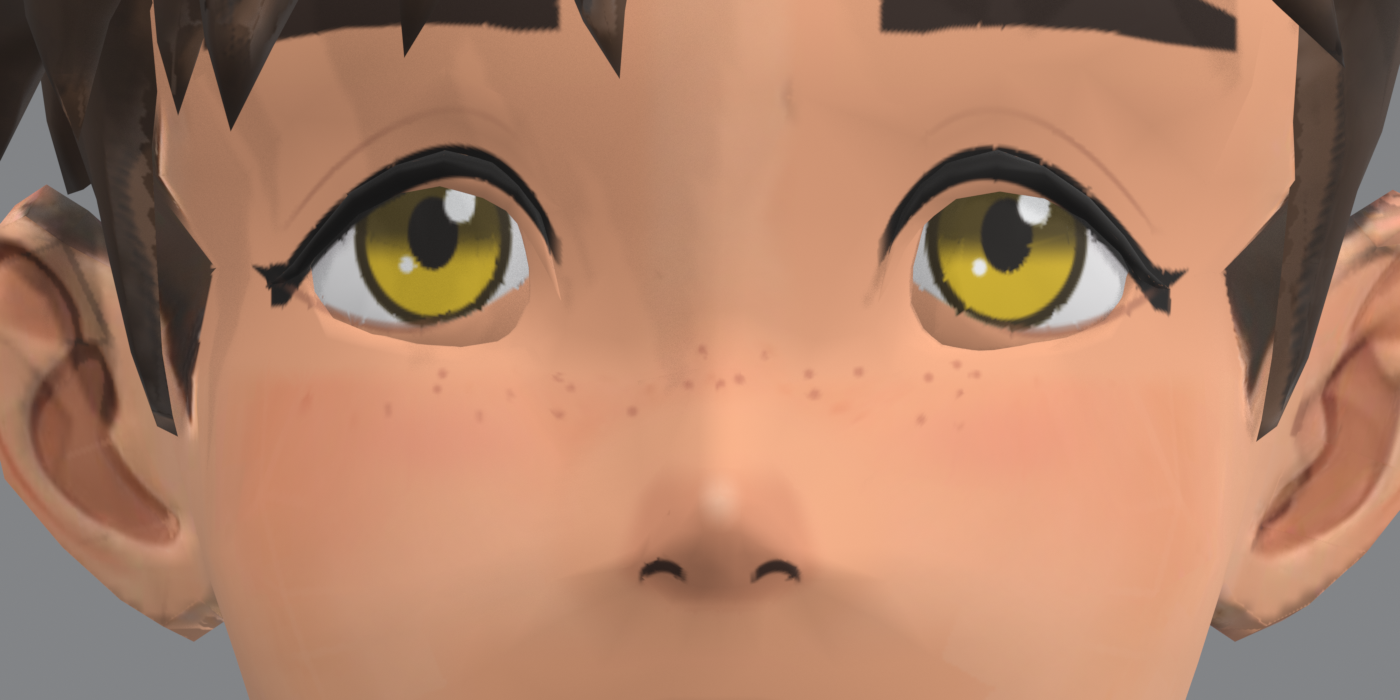
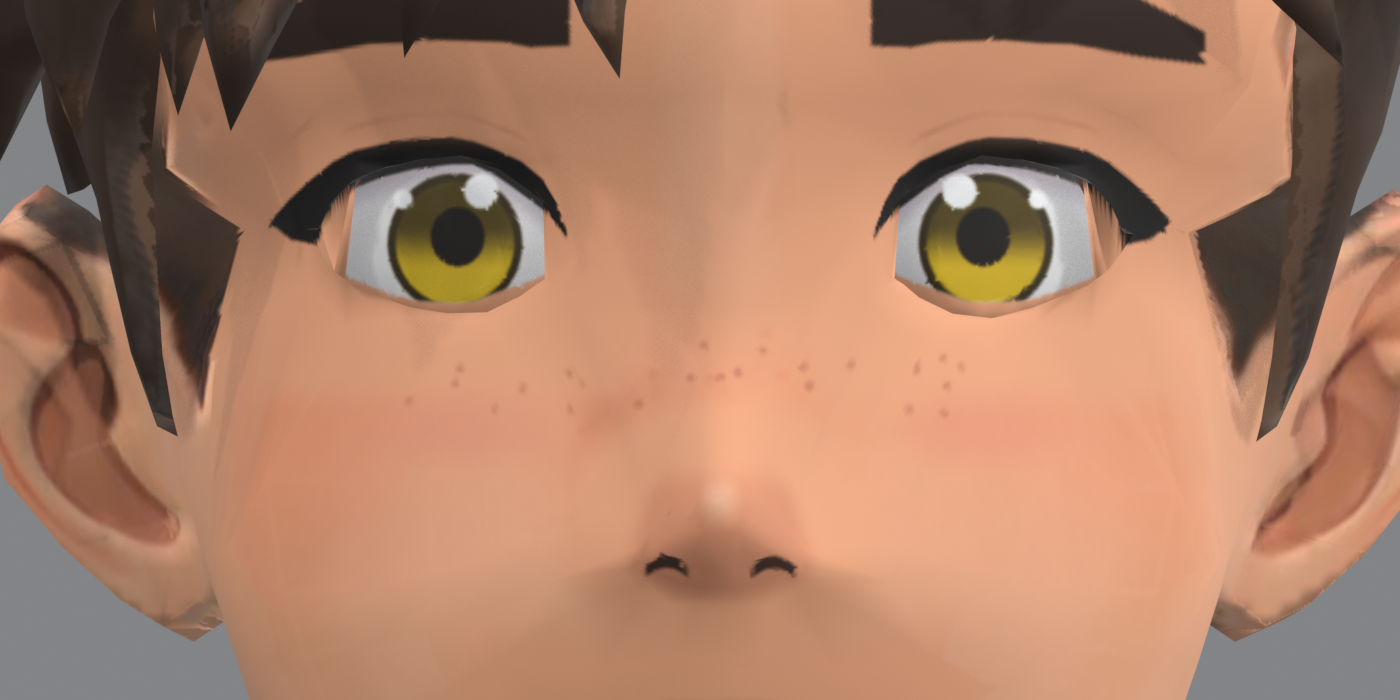
The boy's eyes are the drawing's: an almond traced from the face sheet, 50 mm apart, in sockets fitted to it
The eyes were round and too far apart because they followed Tripo's sockets. eyes.paint_template now paints the
drawn eye itself, traced column by column on the face sheet (an almond 0.46 pupil spacings wide and 0.26 tall, a
nearly flat lash line closing at the inner corner, a short wing, the iris, pupil and highlights), with the pupils
50 mm apart instead of 54; everything else in its region is skin, and the white and iris go on the eyeball only.
The sockets follow: eyes.scale shrinks them to the drawn eye, 4.2 mm toward the nose and 5.4 mm up; the arching
lift is off; eyes.flatten_lids smooths away the lid ridge whose shaded underside crossed the iris as a grey band;
eyes.fit_hole moves the face vertices that fell inside the drawn opening onto its outline. flat_render.py renders
the face unlit for comparison with the drawing.

diff --git a/games/haras_valley/assets/characters/tools/eyes.py b/games/haras_valley/assets/characters/tools/eyes.py
@@ -9,7 +9,9 @@ iris, and Tripo's own eye paint, gloss and normal detail show through at the soc
    corners of each eye are the rim of its hole seen from the front, fitted with smooth quartic curves (outline).
    The lower lid is drawn LOWER_LID eye widths below the corners, the drawing's proportion, but never below where
    the eyeball is still visible from the front (visible_outline): the eyeball bulges past the mesh's lower lid.
-2. On the eyeball and the rim, an eye is drawn in the face sheet's style, analytically in front-view coordinates (so edges
+2. With template_pupils (the cleanup's default), the drawn eye itself is painted there: its outline, lash line,
+   wing, iris, pupil and highlights traced on the face sheet (TEMPLATE_*, paint_template), everything else in its
+   region skin, whatever the socket's shape. Otherwise, on the eyeball and the rim, an eye is drawn in the face sheet's style, analytically in front-view coordinates (so edges
    are as sharp as the texture allows): white with a shadow under the lid, an olive-to-yellow iris with a dark rim,
    a pupil, two highlights, a thick upper lash line ending in an outer wing, a crease above it, a short lower line.
 3. Around the eyes and over the brow band, anything that is not skin (Tripo's eye paint, the projected drawing's
@@ -275,7 +277,7 @@ class Eye:
         return smoothstep(margin, 0, outside)
 
 
-def paint(mesh, world, uv, colour, roughness, metallic, normal, texel_coverage, parts):
+def paint(mesh, world, uv, colour, roughness, metallic, normal, texel_coverage, parts, template_pupils=None):
     """Paint both eyes and brows into the texture arrays in place, from the head's pieces (head_parts)."""
     global EDGE
     height, width = colour.shape[:2]
@@ -340,11 +342,21 @@ def paint(mesh, world, uv, colour, roughness, metallic, normal, texel_coverage, 
     for eye in eyes:
         eye.skin = skin
     current[on_brow] = BROW                       # Tripo's brow strips, in the drawing's brow colour
-    for k, eye in enumerate(eyes):
-        rim = hole_rim(mesh, world, parts['face'], parts['eyeball'][k], with_depth=True)
-        outer = np.argmax(np.abs(rim[:, 0] - midline))
-        eye.corner_x = float(rim[outer, 2])
-        current, _ = eye.paint(current, y, z, eyeball_of == k, points[:, 0])
+    if template_pupils is not None:
+        # The drawn eye, from the face sheet, at the given pupils (eyes in the drawing's shape, not the sockets').
+        sp = template_pupils[1][0] - template_pupils[0][0]
+        for k, pupil in enumerate(template_pupils):
+            inward = 1.0 if pupil[0] < midline else -1.0
+            current, region = paint_template(current, y, z, pupil, sp, inward, skin, EDGE,
+                                             (eyeball_of >= 0).astype(np.float32))
+            zone = np.maximum(zone, region)
+            eyes[k].pupil = tuple(pupil)
+    else:
+        for k, eye in enumerate(eyes):
+            rim = hole_rim(mesh, world, parts['face'], parts['eyeball'][k], with_depth=True)
+            outer = np.argmax(np.abs(rim[:, 0] - midline))
+            eye.corner_x = float(rim[outer, 2])
+            current, _ = eye.paint(current, y, z, eyeball_of == k, points[:, 0])
     colour[rows, cols, :3] = current
     flat = zone[:, None]
     normal[rows, cols, :3] = normal[rows, cols, :3] * (1 - flat) + np.array([.5, .5, 1], np.float32) * flat
@@ -485,7 +497,7 @@ def lift(mesh, world, parts, fraction):
     return {'eyes': record, 'vertices_moved': len(offsets)}
 
 
-def scale(mesh, world, parts, factor, inward=0.0, inner_radius=.021, outer_radius=.027):
+def scale(mesh, world, parts, factor, inward=0.0, up=0.0, inner_radius=.021, outer_radius=.027):
     """Shrink each eye about its centre (front view) by `factor` (across, up and down): the eyeball rigidly, the lid and face around it up
     to inner_radius, fading to nothing at outer_radius (before the nose and the temple). Depth (x) is kept.
 
@@ -517,9 +529,157 @@ def scale(mesh, world, parts, factor, inward=0.0, inner_radius=.021, outer_radiu
             ky = 1 - (1 - factor[0]) * weight
             kz = 1 - (1 - factor[1]) * weight
             shift = -np.sign(pivot.y - midline) * inward * weight          # toward the nose
-            moved[index] = inverse @ Vector((p.x, pivot.y + (p.y - pivot.y) * ky + shift, pivot.z + (p.z - pivot.z) * kz))
+            moved[index] = inverse @ Vector((p.x, pivot.y + (p.y - pivot.y) * ky + shift,
+                                             pivot.z + (p.z - pivot.z) * kz + up * weight))
         record.append({'pivot': [round(pivot.y, 4), round(pivot.z, 4)], 'width_before_mm': round(abs(eye.y_outer - eye.y_inner) * 1000, 1)})
     for index, co in moved.items():
         mesh.vertices[index].co = co
     mesh.update()
-    return {'factor': list(factor), 'inward_mm': round(inward * 1000, 2), 'eyes': record, 'vertices_moved': len(moved)}
+    return {'factor': list(factor), 'inward_mm': round(inward * 1000, 2), 'up_mm': round(up * 1000, 2), 'eyes': record, 'vertices_moved': len(moved)}
+
+
+# The drawn eye, traced column by column on the face sheet's front view (his right eye, pupil at (242.3, 235.9),
+# pupil spacing sp = 92.6 px): u is toward the nose and v up, both in sp, from the pupil. An almond 0.46 sp wide and
+# 0.26 sp tall, the upper lash line nearly flat on top and closing to a point at the inner corner, a short wing out.
+TEMPLATE_OPEN_TOP = ((-.25, -.01), (-.22, .06), (-.18, .095), (-.13, .115), (-.07, .13), (0, .139), (.04, .139),
+                     (.08, .12), (.13, .085), (.17, .055), (.195, .03), (.215, 0))
+TEMPLATE_OPEN_BOTTOM = ((-.25, -.01), (-.22, -.05), (-.18, -.08), (-.13, -.10), (-.07, -.118), (0, -.122),
+                        (.04, -.12), (.08, -.105), (.13, -.088), (.17, -.072), (.195, -.048), (.215, 0))
+TEMPLATE_LASH_TOP = ((-.335, .03), (-.30, .07), (-.26, .107), (-.22, .139), (-.18, .16), (-.13, .172), (-.07, .183),
+                     (0, .185), (.04, .178), (.08, .163), (.13, .14), (.17, .107), (.195, .065), (.215, .01))
+TEMPLATE_WING_BOTTOM = ((-.335, .03), (-.30, .0), (-.25, -.01))
+TEMPLATE_IRIS = (.007, -.012, .125, .13)            # centre u, v and radii across, up and down
+TEMPLATE_PUPIL = (.012, .0, .05, .055)
+TEMPLATE_HIGHLIGHTS = ((.056, .085, .032), (-.09, .07, .018))
+
+
+def paint_template(colour, y, z, pupil, sp, inward, skin, edge, on_eyeball=None):
+    """Paint one drawn eye (the TEMPLATE_* curves) around `pupil` (world y, z) at pupil spacing sp; `inward` is +1
+    when the nose is toward +y from this eye. Everything in the eye's region that is not the eye becomes skin.
+    Returns (colour, region weight)."""
+    u = (y - pupil[0]) * inward / sp
+    v = (z - pupil[1]) / sp
+
+    def curve(points):
+        pu, pv = np.array(points).T
+        return np.interp(u, pu, pv)
+
+    def inside_sp(distance_sp):
+        return smoothstep(-edge, edge, distance_sp * sp)
+
+    def over_(c, paint, alpha):
+        a = alpha[:, None]
+        return c * (1 - a) + paint[None] * a
+
+    region = smoothstep(.5, .42, -u) * smoothstep(.36, .29, u) * smoothstep(.3, .24, v) * smoothstep(-.34, -.26, v)
+    colour = over_(colour, skin, region)
+    in_span = inside_sp(u + .25) * inside_sp(.215 - u)
+    top, bottom = curve(TEMPLATE_OPEN_TOP), curve(TEMPLATE_OPEN_BOTTOM)
+    opening = in_span * inside_sp(top - v) * inside_sp(v - bottom)
+    if on_eyeball is not None:
+        opening = opening * on_eyeball        # the white and iris on the eyeball only; the hole's walls stay skin
+    # White, a little shaded under the lash line.
+    shade = smoothstep(.0, .06, top - v)[:, None]
+    white = SCLERA_SHADOW[None] * (1 - shade) + SCLERA[None] * shade
+    colour = over_(colour, white, opening)
+    # Iris: dark olive at the top to bright yellow at the bottom, a dark rim, the pupil, two highlights.
+    iu, iv, ru, rv = TEMPLATE_IRIS
+    r = np.hypot((u - iu) / ru, (v - iv) / rv)
+    iris = inside_sp((1 - r) * rv) * opening
+    t = np.clip((iv + rv - v) / (2 * rv), 0, 1)
+    g = smoothstep(.35, .7, t)[:, None]
+    iris_colour = IRIS_TOP[None] * (1 - g) + IRIS_BOTTOM[None] * g
+    rim = inside_sp((r - .88) * rv)[:, None]
+    iris_colour = iris_colour * (1 - rim) + IRIS_RIM[None] * rim
+    colour = over_(colour, iris_colour, iris)
+    pu_, pv_, pru, prv = TEMPLATE_PUPIL
+    colour = over_(colour, PUPIL, inside_sp((1 - np.hypot((u - pu_) / pru, (v - pv_) / prv)) * prv) * opening)
+    for hu, hv, hr in TEMPLATE_HIGHLIGHTS:
+        colour = over_(colour, HIGHLIGHT, inside_sp(hr - np.hypot(u - hu, v - hv)) * opening)
+    # Upper lash line and wing.
+    lash_top = curve(TEMPLATE_LASH_TOP)
+    lash_bottom = np.where(u < -.25, curve(TEMPLATE_WING_BOTTOM), top)
+    lash = inside_sp(lash_top - v) * inside_sp(v - lash_bottom + .004) * inside_sp(u + .335) * inside_sp(.215 - u)
+    colour = over_(colour, LASH, lash)
+    # A thin crease above it.
+    crease = inside_sp(.006 - np.abs(v - lash_top - .045)) * smoothstep(-.22, -.16, u) * smoothstep(.16, .1, u)
+    colour = over_(colour, CREASE, .5 * crease)
+    return colour, region
+
+
+def flatten_lids(mesh, world, parts, pupils, sp, iterations=60, eyeball_back=.0012):
+    """Smooth away the lid ridge Tripo sculpted around each socket: the depth (x only) of the face around each eye is
+    evened out by Laplacian passes, fully within the eye's area (|u| < 0.42, |v| < 0.30 of sp from the pupil, the
+    drawn eye plus its lash line) and fading out by 1.3 times that. The ridge stood out over the eye and its shaded
+    underside showed as a grey band across the top of the iris. The eyeballs move back by eyeball_back so the
+    flattened skin stays in front of them."""
+    from mathutils import Vector
+    inverse = world.inverted()
+    vertices = sorted({v for i in parts['face'] for v in mesh.polygons[i].vertices})
+    points = {v: world @ mesh.vertices[v].co for v in vertices}
+
+    def weight(p):
+        if p.x < 0:
+            return 0.0
+        best = 0.0
+        for py, pz in pupils:
+            r = math.hypot((p.y - py) / (.42 * sp), (p.z - pz) / (.30 * sp))
+            best = max(best, float(smoothstep(1.3, 1.0, r)))
+        return best
+
+    import math
+    weights = {v: weight(p) for v, p in points.items()}
+    active = [v for v, w in weights.items() if w > 0]
+    neighbours = {v: [] for v in active}
+    for edge in mesh.edges:
+        a, b = edge.vertices
+        if a in neighbours and b in points:
+            neighbours[a].append(b)
+        if b in neighbours and a in points:
+            neighbours[b].append(a)
+    x = {v: p.x for v, p in points.items()}
+    for _ in range(iterations):
+        nxt = dict(x)
+        for v in active:
+            if neighbours[v]:
+                nxt[v] = x[v] + (sum(x[o] for o in neighbours[v]) / len(neighbours[v]) - x[v]) * .6 * weights[v]
+        x = nxt
+    largest = 0.0
+    for v in active:
+        p = points[v]
+        largest = max(largest, abs(x[v] - p.x))
+        mesh.vertices[v].co = inverse @ Vector((x[v], p.y, p.z))
+    for index in {v for i in parts['eyeballs'] for v in mesh.polygons[i].vertices}:
+        p = world @ mesh.vertices[index].co
+        mesh.vertices[index].co = inverse @ Vector((p.x - eyeball_back, p.y, p.z))
+    mesh.update()
+    return {'face_vertices': len(active), 'largest_depth_change_mm': round(largest * 1000, 2),
+            'eyeballs_back_mm': round(eyeball_back * 1000, 2)}
+
+
+def fit_hole(mesh, world, parts, pupils, sp, margin=.012):
+    """Make each socket's hole the drawn eye's outline: face vertices that fall inside the drawn opening (seen from the
+    front) move up onto its top curve or down onto its bottom curve, `margin` sp outside it. Tripo's lid folded down
+    into the hole and hung over the top of the iris."""
+    from mathutils import Vector
+    inverse = world.inverted()
+    top_u, top_v = np.array(TEMPLATE_OPEN_TOP).T
+    bottom_u, bottom_v = np.array(TEMPLATE_OPEN_BOTTOM).T
+    midline = (pupils[0][0] + pupils[1][0]) / 2
+    moved = 0
+    for index in {v for i in parts['face'] for v in mesh.polygons[i].vertices}:
+        p = world @ mesh.vertices[index].co
+        if p.x < 0:
+            continue
+        for py, pz in pupils:
+            inward = 1.0 if py < midline else -1.0
+            u, v = (p.y - py) * inward / sp, (p.z - pz) / sp
+            if not -.25 < u < .215:
+                continue
+            top, bottom = float(np.interp(u, top_u, top_v)), float(np.interp(u, bottom_u, bottom_v))
+            if bottom - margin < v < top + margin:
+                target = top + margin if v > (top + bottom) / 2 else bottom - margin
+                mesh.vertices[index].co = inverse @ Vector((p.x, p.y, pz + target * sp))
+                moved += 1
+    mesh.update()
+    return {'vertices_moved': moved}

diff --git a/games/haras_valley/assets/characters/tools/cleanup_face_hair.py b/games/haras_valley/assets/characters/tools/cleanup_face_hair.py
@@ -22,8 +22,9 @@ jaw a V where the drawing's is a U. These fixes change textures and vertices onl
    sheet's front view with the pupils made to coincide: the jaw drops onto the drawing's rounder outline
    (face.fit_jaw) and recedes CHIN_RECEDE at the chin (face.recede_chin), the cheeks widen by CHEEK_WIDEN
    (face.widen_lower_face, 0: widened they read as hamster cheeks), the eyes shrink to EYE_SCALE and move
-   EYE_INWARD toward the nose (eyes.scale), turn EYE_TILT_DEGREES outer corner up (eyes.tilt) and open by EYE_LIFT
-   (eyes.lift), the nose stands out NOSE_DEPTH as far (face.shrink_nose), the mouth rises MOUTH_UP
+   EYE_INWARD toward the nose and EYE_UP under the drawn eyes (eyes.scale), turn EYE_TILT_DEGREES outer corner up
+   (eyes.tilt), lose Tripo's sculpted lid ridge (eyes.flatten_lids) and have their holes fitted to the drawn eye's
+   outline (eyes.fit_hole), the nose stands out NOSE_DEPTH as far (face.shrink_nose), the mouth rises MOUTH_UP
    (mouth.raise_mouth), the sculpted lips are flattened and closed (mouth.flatten), the area between nose, cheeks and
    chin is smoothed into one surface so no muzzle is left (face.smooth_lower_face) and straightened into one slope
    from under the nose to the chin, so the upper lip does not stand out (face.straighten_profile), and the shading
@@ -60,14 +61,16 @@ FACE_FADE = (0.35, 0.75)               # normal x over which the projection fade
 CHIN_FADE = (0.324, 0.338)             # z over which it fades out above the chin's drawn outline
 HAIR_STRETCH = 0.0                     # Tripo's hair volume already matches the drawing's (measured with the pupils overlaid)
 FRINGE_DROOP = 0.0                     # front strands move down by this much of their height
-EYE_SCALE = (0.74, 0.88)               # across, up-down: Tripo's eyes are 0.66 pupil spacings wide, the drawing's 0.49
-EYE_INWARD = 0.0020                    # each eye toward the nose: the gap between them was 1.4 eye widths, drawn 1.18
+EYE_SCALE = (0.68, 0.70)               # across, up-down: each socket to the drawn eye's size (25 by 14.5 mm)
+EYE_UP = 0.0054                        # and up under it, so no socket shows below the drawn lower lid
+EYE_INWARD = 0.0042                    # each socket toward the nose, under the drawn eyes' pupils
+EYE_PUPILS = ((-0.0281, 0.3855), (0.0219, 0.3855))   # the drawn eyes' pupils: 50 mm apart (was 54), centred on the face
 CHEEK_WIDEN = 0.0                      # measured 9 to 13% narrower than the drawing's, but widened it reads as hamster cheeks
 NOSE_DEPTH = 0.6                       # the nose stands out 60% as far: the drawing's is small
 CHIN_RECEDE = 0.005                    # the chin 5 mm further back: the drawing's profile recedes from the nose tip
 MOUTH_UP = 0.0033                      # the drawing's mouth sits 3.3 mm higher (pupils and chin overlaid)
-EYE_TILT_DEGREES = 8.0                 # outer corners up: from Tripo's 12 degree droop to the drawing's 4
-EYE_LIFT = 0.20                        # the eye's middle up by this much of its width: the drawing's upper-lid arch
+EYE_TILT_DEGREES = 4.0                 # outer corners up: the socket's droop under the drawn eye
+EYE_LIFT = 0.0                         # the socket's middle up by this much of its width (any made the eye round)
 MOUTH_Z, MOUTH_HALF_WIDTH = 0.338, 0.016    # the mouth's middle and half width (front render of model-r03)
 MOUTH_RISE = 0.0                       # the corners stay where they are: raised, they looked unnatural
 NOSE_Z = 0.3553                        # the nose line (the nostrils), front render of model-r03
@@ -329,9 +332,11 @@ def main():
     warp_record = face.fit_jaw(mesh, world, head_vertices, CHIN_CENTRE_Y, MOUTH_Z, COLLAR_Z)
     face_vertices = {v for i in parts['face'] for v in mesh.polygons[i].vertices}
     widen_record = face.widen_lower_face(mesh, world, face_vertices, CHIN_CENTRE_Y, .357, .3497, .318, .309, CHEEK_WIDEN)
-    scale_record = eyes.scale(mesh, world, parts, EYE_SCALE, EYE_INWARD)
+    scale_record = eyes.scale(mesh, world, parts, EYE_SCALE, EYE_INWARD, EYE_UP)
     tilt_record = eyes.tilt(mesh, world, parts, EYE_TILT_DEGREES)
     lift_record = eyes.lift(mesh, world, parts, EYE_LIFT)
+    lids_record = eyes.flatten_lids(mesh, world, parts, EYE_PUPILS, EYE_PUPILS[1][0] - EYE_PUPILS[0][0])
+    hole_record = eyes.fit_hole(mesh, world, parts, EYE_PUPILS, EYE_PUPILS[1][0] - EYE_PUPILS[0][0])
     chin_back = face.recede_chin(mesh, world, face_vertices, CHIN_CENTRE_Y, .339, .309, COLLAR_Z, CHIN_RECEDE)
     nose_shape = face.shrink_nose(mesh, world, face_vertices, CHIN_CENTRE_Y, .361, NOSE_DEPTH)
     mouth_raise = mouth.raise_mouth(mesh, world, parts['face'], CHIN_CENTRE_Y, MOUTH_Z - .002, MOUTH_UP)
@@ -347,7 +352,8 @@ def main():
     roughness_image, metallic_image = image_for(material, 'Roughness'), image_for(material, 'Metallic')
     roughness_data = np.array(roughness_image.pixels[:], dtype=np.float32).reshape(height, width, 4)
     metallic_data = np.array(metallic_image.pixels[:], dtype=np.float32).reshape(height, width, 4)
-    eye_record = eyes.paint(mesh, world, uv, colour, roughness_data, metallic_data, normal_data, texel_coverage, parts)
+    eye_record = eyes.paint(mesh, world, uv, colour, roughness_data, metallic_data, normal_data, texel_coverage, parts,
+                            EYE_PUPILS)
 
     # 7. One mouth: the drawn and Tripo-painted mouths cleared, a single line along the sculpted seam (mouth.py).
     face_paint = face.paint(mesh, world, uv, colour, normal_data, roughness_data, texel_coverage, parts['face'],
@@ -406,7 +412,7 @@ def main():
         'skin_gain': [round(float(c), 3) for c in skin_gain], 'skin_texels_matched': int(rest.sum()),
         'hair_median_before': [round(float(c), 3) for c in hair_before], 'hair_target': [round(float(c), 3) for c in hair_target],
         'hair_texels_recoloured': int(hair_mask.sum()), 'hair_polygons': len(hair_polygons),
-        'eyes': eye_record, 'eye_tilt': tilt_record, 'eye_lift': lift_record, 'mouth_corners': mouth_record, 'mouth_line': mouth_paint, 'mouth_flatten': flatten_record, 'lower_face': warp_record, 'cheeks': widen_record, 'nose_depth': nose_shape, 'chin_recede': chin_back, 'lower_face_smooth': lower_smooth, 'profile': profile_record, 'mouth_raise': mouth_raise, 'eye_scale': scale_record, 'nose': nose_record, 'face_paint': face_paint, 'brow_strip_polygons_removed': len(parts['brows']), 'reshaded': normals_record, 'cornea_disc_polygons_removed': len(parts['discs']), 'hair_vertices_moved': len(hair_vertices), 'largest_hair_move': round(largest, 4), 'hair_stretch': HAIR_STRETCH, 'fringe_droop': FRINGE_DROOP,
+        'eyes': eye_record, 'eye_tilt': tilt_record, 'eye_lift': lift_record, 'eye_lids': lids_record, 'eye_holes': hole_record, 'mouth_corners': mouth_record, 'mouth_line': mouth_paint, 'mouth_flatten': flatten_record, 'lower_face': warp_record, 'cheeks': widen_record, 'nose_depth': nose_shape, 'chin_recede': chin_back, 'lower_face_smooth': lower_smooth, 'profile': profile_record, 'mouth_raise': mouth_raise, 'eye_scale': scale_record, 'nose': nose_record, 'face_paint': face_paint, 'brow_strip_polygons_removed': len(parts['brows']), 'reshaded': normals_record, 'cornea_disc_polygons_removed': len(parts['discs']), 'hair_vertices_moved': len(hair_vertices), 'largest_hair_move': round(largest, 4), 'hair_stretch': HAIR_STRETCH, 'fringe_droop': FRINGE_DROOP,
     }
     (output / 'cleanup.json').write_text(json.dumps(record, indent=2) + '\n')
     print(json.dumps(record, indent=1), flush=True)

diff --git a/games/haras_valley/assets/characters/tools/flat_render.py b/games/haras_valley/assets/characters/tools/flat_render.py
@@ -1,0 +1,17 @@
+"""Render a review blend from the front with flat, unlit texture colours (Workbench), framed like overlay_render.py.
+
+/Applications/Blender.app/Contents/MacOS/Blender -b --python games/haras_valley/assets/characters/tools/flat_render.py -- review.blend flat.png
+The painted eyes, brows and nose read as painted, with no shading, for comparison with the drawing.
+"""
+import bpy, sys
+from mathutils import Vector
+path, out = sys.argv[sys.argv.index('--')+1:][:2]
+bpy.ops.wm.open_mainfile(filepath=path)
+scene=bpy.context.scene
+scene.render.engine='BLENDER_WORKBENCH'
+scene.display.shading.light='FLAT'; scene.display.shading.color_type='TEXTURE'
+scene.view_settings.view_transform='Standard'
+cam=scene.camera; cam.data.ortho_scale=0.2; scene.render.resolution_x=scene.render.resolution_y=1200
+cy,cz=-0.0031,0.352
+cam.location=Vector((3,cy,cz)); cam.rotation_euler=(Vector((0,cy,cz))-cam.location).to_track_quat('-Z','Y').to_euler()
+scene.render.filepath=out; bpy.ops.render.render(write_still=True)

diff --git a/games/haras_valley/assets/characters/boy/README.md b/games/haras_valley/assets/characters/boy/README.md
@@ -47,14 +47,17 @@ only: the topology and UVs are Tripo's, less the brow strips and cornea discs.
   coincide (the dark centres of the drawn irises; a first measure took a lash line for a pupil and overstated their
   spacing by 12%, which left the eyes too small and too far apart).
 - **Shape first** (`face.py`, `eyes.py`, `mouth.py`). The jaw drops onto the drawing's rounder outline and the chin
-  recedes 5 mm, as the drawing's profile runs straight from nose to chin; the eyes shrink to the drawing's size,
-  move 2 mm toward the nose, turn 8 degrees outer corner up and open; the nose stands out 60% as far; the mouth rises
-  3.3 mm; the sculpted lips are flattened and the area between nose, cheeks and chin smoothed into one surface and
-  straightened into one slope, so no muzzle and no bump over the upper lip are left. The shading normals of every moved vertex are re-derived, since Tripo's FBX carries the
-  sculpt's shading frozen. (Widening the cheeks to the drawing's measured width read as hamster cheeks; it is off.)
+  recedes 5 mm, as the drawing's profile runs straight from nose to chin. Each eye socket shrinks to the drawn eye
+  (25 by 14.5 mm), moves 4.2 mm toward the nose and 5.4 mm up under it, loses Tripo's sculpted lid ridge, and has its
+  hole fitted to the drawn outline. The nose stands out 60% as far; the mouth rises 3.3 mm; the sculpted lips are
+  flattened and the area between nose, cheeks and chin smoothed and straightened into one slope, so no muzzle and
+  no bump over the upper lip are left. The shading normals of every moved vertex are re-derived, since Tripo's FBX
+  carries the sculpt's shading frozen. (Widening the cheeks to the drawing's measured width read as hamster cheeks;
+  it is off.)
 - **Then paint.** Tripo builds the head from separate pieces: hair cap, face with a hole at each eye, an eyeball
-  behind each hole, brow strips, cornea discs. Clean cel eyes in the drawing's colours go on the eyeballs inside
-  each hole's rim; thick straight brows, blush, freckles and one level mouth line are painted as drawn, placed from
+  behind each hole, brow strips, cornea discs. The eyes are the drawing's own, traced column by column on the face
+  sheet (an almond 0.46 pupil spacings wide and 0.26 tall, a nearly flat lash line closing at the inner corner, a
+  short wing) and painted with their pupils 50 mm apart; thick straight brows, blush, freckles and one level mouth line are painted as drawn, placed from
   the painted pupils, and the nose (light tip, two arched nostrils, round shade) on the sculpted nose's tip. Skin and hair take the drawing's
   colours. Tripo's hair volume measures as the drawing's and is kept.
 
